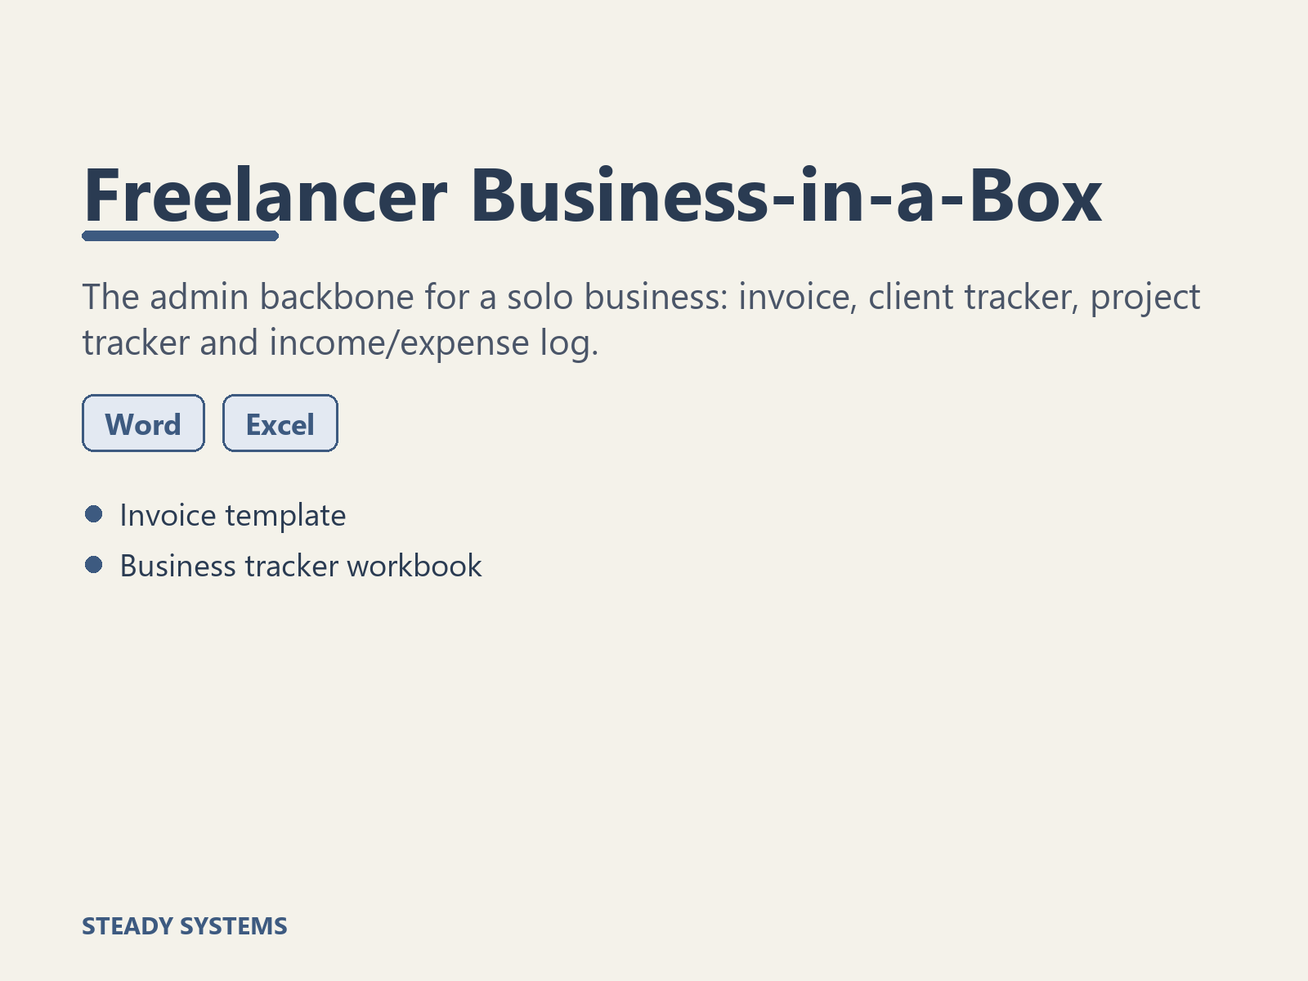
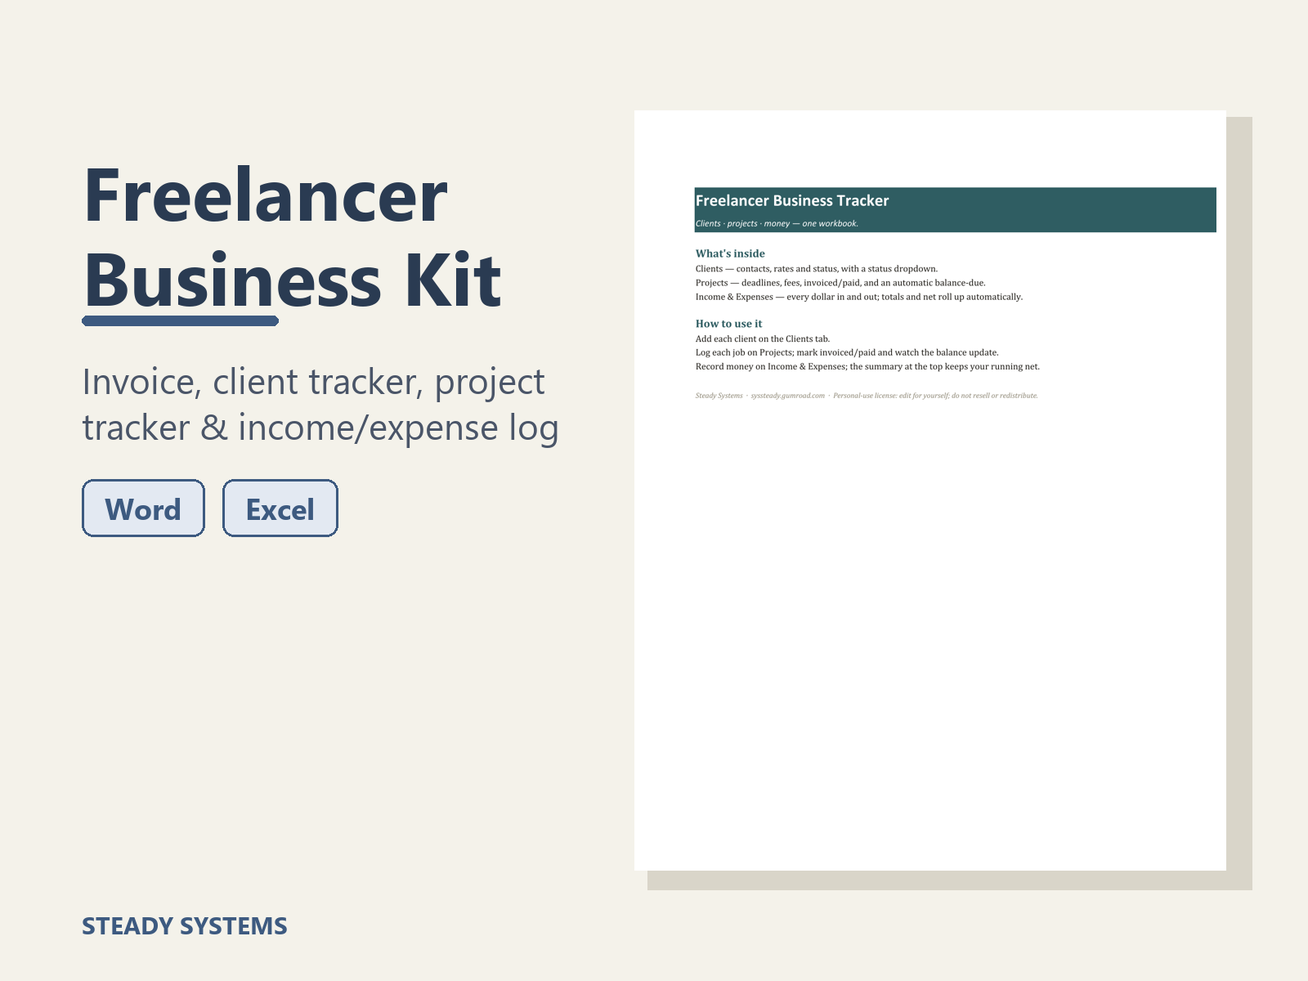
Steady Suite: per-section $1 premium pricing + refresh shop (69 products)
- Premium now priced per section at $1/mo (Money, Health, Study, Work, Home)
  instead of a single $3.99 tier; updated initPremium price + Money's modal
  and lockveil copy.
- Regenerate Template Shop with the small-business/solopreneur batch
  (148-157) plus new covers; 69 products total.

Claude-Session: https://claude.ai/code/session_01RyYX9VLjAtwqdAkZESYGAZ

Changed region(s): [[0.0625, 0.1233, 0.9688, 0.925], [0.0625, 0.4933, 0.375, 0.5858]]

diff --git a/steady/index.html b/steady/index.html
@@ -95,7 +95,7 @@ footer a{color:var(--amber)}
   <p>Practical, original systems for studying, job-hunting, money and getting organized &mdash; in the formats you
      already use (Excel, Word, PDF, Obsidian/Notion). Every one is a clean instant download.</p>
   <div class="meta">
-    <span class="tag"><b>49</b> products</span>
+    <span class="tag"><b>69</b> products</span>
     <span class="tag">Instant download</span>
     <span class="tag">Personal-use license</span>
     <span class="tag">Made in Dallas, TX</span>
@@ -399,7 +399,7 @@ footer a{color:var(--amber)}
         <a class="go" href="https://syssteady.gumroad.com/l/new-job-launch-pack" target="_blank" rel="noopener">Get it on Gumroad &rarr;</a>
       </article>
     </div>
-      <h3 class="subhead">Home &amp; life admin <span>15</span></h3>
+      <h3 class="subhead">Home &amp; life admin <span>35</span></h3>
       <div class="shopgrid">
       <article class="paper">
         <a class="shotlink" href="https://syssteady.gumroad.com/l/home-maintenance-pack" target="_blank" rel="noopener">
@@ -520,6 +520,166 @@ footer a{color:var(--amber)}
         <p>Hit reset on your money: a one-page honest snapshot of where you stand and a quarterly goals sheet to set the next 90 days.</p>
         <div class="chips"><span class="chip">PDF</span></div>
         <a class="go" href="https://syssteady.gumroad.com/l/money-reset-worksheet" target="_blank" rel="noopener">Get it on Gumroad &rarr;</a>
+      </article>
+      <article class="paper">
+        <a class="shotlink" href="https://syssteady.gumroad.com/l/habit-tracker-pack" target="_blank" rel="noopener">
+          <img class="shot" src="covers/habit-tracker-pack.png" alt="Habit Tracker Pack cover" loading="lazy"></a>
+        <div class="top"><h3>Habit Tracker Pack</h3><span class="price">$5</span></div>
+        <p>Build habits that stick: a printable month-at-a-glance grid plus an Excel weekly tracker that counts your streak and scores you against your goal.</p>
+        <div class="chips"><span class="chip">Excel</span><span class="chip">PDF</span></div>
+        <a class="go" href="https://syssteady.gumroad.com/l/habit-tracker-pack" target="_blank" rel="noopener">Get it on Gumroad &rarr;</a>
+      </article>
+      <article class="paper">
+        <a class="shotlink" href="https://syssteady.gumroad.com/l/water-intake-tracker" target="_blank" rel="noopener">
+          <img class="shot" src="covers/water-intake-tracker.png" alt="Water Intake Tracker cover" loading="lazy"></a>
+        <div class="top"><h3>Water Intake Tracker</h3><span class="price">$5</span></div>
+        <p>Actually drink enough water: a color-in daily glass tracker for the week plus a weekly log to see if you hit your goal.</p>
+        <div class="chips"><span class="chip">PDF</span></div>
+        <a class="go" href="https://syssteady.gumroad.com/l/water-intake-tracker" target="_blank" rel="noopener">Get it on Gumroad &rarr;</a>
+      </article>
+      <article class="paper">
+        <a class="shotlink" href="https://syssteady.gumroad.com/l/sleep-tracker" target="_blank" rel="noopener">
+          <img class="shot" src="covers/sleep-tracker.png" alt="Sleep Tracker cover" loading="lazy"></a>
+        <div class="top"><h3>Sleep Tracker</h3><span class="price">$5</span></div>
+        <p>Sleep better by seeing your patterns: an Excel log that calculates your hours and average, plus a printable log and a wind-down checklist.</p>
+        <div class="chips"><span class="chip">PDF</span><span class="chip">Excel</span></div>
+        <a class="go" href="https://syssteady.gumroad.com/l/sleep-tracker" target="_blank" rel="noopener">Get it on Gumroad &rarr;</a>
+      </article>
+      <article class="paper">
+        <a class="shotlink" href="https://syssteady.gumroad.com/l/workout-fitness-log" target="_blank" rel="noopener">
+          <img class="shot" src="covers/workout-fitness-log.png" alt="Workout &amp; Fitness Log cover" loading="lazy"></a>
+        <div class="top"><h3>Workout &amp; Fitness Log</h3><span class="price">$5</span></div>
+        <p>Train with a plan and track your progress: a per-session workout log with sets and notes, plus a weekly plan so every day is decided ahead.</p>
+        <div class="chips"><span class="chip">PDF</span></div>
+        <a class="go" href="https://syssteady.gumroad.com/l/workout-fitness-log" target="_blank" rel="noopener">Get it on Gumroad &rarr;</a>
+      </article>
+      <article class="paper">
+        <a class="shotlink" href="https://syssteady.gumroad.com/l/mood-journal" target="_blank" rel="noopener">
+          <img class="shot" src="covers/mood-journal.png" alt="Mood Journal cover" loading="lazy"></a>
+        <div class="top"><h3>Mood Journal</h3><span class="price">$5</span></div>
+        <p>Understand your moods instead of just riding them: a two-minute daily journal and a weekly review that surfaces your patterns.</p>
+        <div class="chips"><span class="chip">PDF</span></div>
+        <a class="go" href="https://syssteady.gumroad.com/l/mood-journal" target="_blank" rel="noopener">Get it on Gumroad &rarr;</a>
+      </article>
+      <article class="paper">
+        <a class="shotlink" href="https://syssteady.gumroad.com/l/self-care-pack" target="_blank" rel="noopener">
+          <img class="shot" src="covers/self-care-pack.png" alt="Self-Care Pack cover" loading="lazy"></a>
+        <div class="top"><h3>Self-Care Pack</h3><span class="price">$5</span></div>
+        <p>Make self-care doable: a weekly checklist across body, mind and connection, plus a menu of ideas sorted by how much time and energy you have.</p>
+        <div class="chips"><span class="chip">PDF</span></div>
+        <a class="go" href="https://syssteady.gumroad.com/l/self-care-pack" target="_blank" rel="noopener">Get it on Gumroad &rarr;</a>
+      </article>
+      <article class="paper">
+        <a class="shotlink" href="https://syssteady.gumroad.com/l/daily-routine-planner" target="_blank" rel="noopener">
+          <img class="shot" src="covers/daily-routine-planner.png" alt="Daily Routine Planner cover" loading="lazy"></a>
+        <div class="top"><h3>Daily Routine Planner</h3><span class="price">$5</span></div>
+        <p>Run your day on rails: build simple morning and evening routines, then plan the day hour by hour around your top three priorities.</p>
+        <div class="chips"><span class="chip">PDF</span></div>
+        <a class="go" href="https://syssteady.gumroad.com/l/daily-routine-planner" target="_blank" rel="noopener">Get it on Gumroad &rarr;</a>
+      </article>
+      <article class="paper">
+        <a class="shotlink" href="https://syssteady.gumroad.com/l/meal-planner-grocery" target="_blank" rel="noopener">
+          <img class="shot" src="covers/meal-planner-grocery.png" alt="Meal Planner &amp; Grocery List cover" loading="lazy"></a>
+        <div class="top"><h3>Meal Planner &amp; Grocery List</h3><span class="price">$5</span></div>
+        <p>Eat better and waste less: plan a full week of meals, then shop from a grocery list organized by store section.</p>
+        <div class="chips"><span class="chip">PDF</span></div>
+        <a class="go" href="https://syssteady.gumroad.com/l/meal-planner-grocery" target="_blank" rel="noopener">Get it on Gumroad &rarr;</a>
+      </article>
+      <article class="paper">
+        <a class="shotlink" href="https://syssteady.gumroad.com/l/habit-challenge-pack" target="_blank" rel="noopener">
+          <img class="shot" src="covers/habit-challenge-pack.png" alt="30-Day Habit Challenge cover" loading="lazy"></a>
+        <div class="top"><h3>30-Day Habit Challenge</h3><span class="price">$5</span></div>
+        <p>Build one habit in a month: a 30-day color-in challenge tracker plus a worksheet that designs the habit so it almost runs itself.</p>
+        <div class="chips"><span class="chip">PDF</span></div>
+        <a class="go" href="https://syssteady.gumroad.com/l/habit-challenge-pack" target="_blank" rel="noopener">Get it on Gumroad &rarr;</a>
+      </article>
+      <article class="paper">
+        <a class="shotlink" href="https://syssteady.gumroad.com/l/wellness-dashboard" target="_blank" rel="noopener">
+          <img class="shot" src="covers/wellness-dashboard.png" alt="Wellness Dashboard cover" loading="lazy"></a>
+        <div class="top"><h3>Wellness Dashboard</h3><span class="price">$5</span></div>
+        <p>See your whole month of health in one place: an Excel dashboard that averages sleep, workouts, water, mood and habits, plus a monthly review page.</p>
+        <div class="chips"><span class="chip">PDF</span><span class="chip">Excel</span></div>
+        <a class="go" href="https://syssteady.gumroad.com/l/wellness-dashboard" target="_blank" rel="noopener">Get it on Gumroad &rarr;</a>
+      </article>
+      <article class="paper">
+        <a class="shotlink" href="https://syssteady.gumroad.com/l/small-business-sop-pack" target="_blank" rel="noopener">
+          <img class="shot" src="covers/small-business-sop-pack.png" alt="Small Business SOP Pack cover" loading="lazy"></a>
+        <div class="top"><h3>Small Business SOP Pack</h3><span class="price">$5</span></div>
+        <p>Document how you do things once, then run them the same way every time. A reusable SOP template plus a library to track every process in your business.</p>
+        <div class="chips"><span class="chip">PDF</span><span class="chip">Word</span></div>
+        <a class="go" href="https://syssteady.gumroad.com/l/small-business-sop-pack" target="_blank" rel="noopener">Get it on Gumroad &rarr;</a>
+      </article>
+      <article class="paper">
+        <a class="shotlink" href="https://syssteady.gumroad.com/l/small-business-bookkeeping-ledger" target="_blank" rel="noopener">
+          <img class="shot" src="covers/small-business-bookkeeping-ledger.png" alt="Small-Business Bookkeeping Ledger cover" loading="lazy"></a>
+        <div class="top"><h3>Small-Business Bookkeeping Ledger</h3><span class="price">$5</span></div>
+        <p>One simple sheet for every dollar in and out, with totals that add themselves - plus a one-page monthly summary to close the books.</p>
+        <div class="chips"><span class="chip">Excel</span><span class="chip">PDF</span></div>
+        <a class="go" href="https://syssteady.gumroad.com/l/small-business-bookkeeping-ledger" target="_blank" rel="noopener">Get it on Gumroad &rarr;</a>
+      </article>
+      <article class="paper">
+        <a class="shotlink" href="https://syssteady.gumroad.com/l/content-social-media-planner" target="_blank" rel="noopener">
+          <img class="shot" src="covers/content-social-media-planner.png" alt="Content &amp; Social Media Planner cover" loading="lazy"></a>
+        <div class="top"><h3>Content &amp; Social Media Planner</h3><span class="price">$5</span></div>
+        <p>Plan and track your posts across every platform in one calendar, with a weekly planner and an idea bank so you&#x27;re never stuck for something to post.</p>
+        <div class="chips"><span class="chip">Excel</span><span class="chip">PDF</span></div>
+        <a class="go" href="https://syssteady.gumroad.com/l/content-social-media-planner" target="_blank" rel="noopener">Get it on Gumroad &rarr;</a>
+      </article>
+      <article class="paper">
+        <a class="shotlink" href="https://syssteady.gumroad.com/l/mileage-expense-log" target="_blank" rel="noopener">
+          <img class="shot" src="covers/mileage-expense-log.png" alt="Mileage &amp; Expense Log cover" loading="lazy"></a>
+        <div class="top"><h3>Mileage &amp; Expense Log</h3><span class="price">$5</span></div>
+        <p>Track business miles and expenses so you claim every deduction. The spreadsheet totals your mileage write-off automatically; the printable logs ride in the glovebox.</p>
+        <div class="chips"><span class="chip">Excel</span><span class="chip">PDF</span></div>
+        <a class="go" href="https://syssteady.gumroad.com/l/mileage-expense-log" target="_blank" rel="noopener">Get it on Gumroad &rarr;</a>
+      </article>
+      <article class="paper">
+        <a class="shotlink" href="https://syssteady.gumroad.com/l/customer-crm-tracker" target="_blank" rel="noopener">
+          <img class="shot" src="covers/customer-crm-tracker.png" alt="Customer &amp; CRM Tracker cover" loading="lazy"></a>
+        <div class="top"><h3>Customer &amp; CRM Tracker</h3><span class="price">$5</span></div>
+        <p>A no-fuss CRM for solo businesses: track every customer and lead, their status and value, and who to follow up with this week.</p>
+        <div class="chips"><span class="chip">Excel</span><span class="chip">PDF</span></div>
+        <a class="go" href="https://syssteady.gumroad.com/l/customer-crm-tracker" target="_blank" rel="noopener">Get it on Gumroad &rarr;</a>
+      </article>
+      <article class="paper">
+        <a class="shotlink" href="https://syssteady.gumroad.com/l/pricing-profit-calculator" target="_blank" rel="noopener">
+          <img class="shot" src="covers/pricing-profit-calculator.png" alt="Pricing &amp; Profit Calculator cover" loading="lazy"></a>
+        <div class="top"><h3>Pricing &amp; Profit Calculator</h3><span class="price">$5</span></div>
+        <p>Stop guessing your prices. Enter your costs, overhead and the margin you want, and get a suggested price - for products or services.</p>
+        <div class="chips"><span class="chip">Excel</span><span class="chip">PDF</span></div>
+        <a class="go" href="https://syssteady.gumroad.com/l/pricing-profit-calculator" target="_blank" rel="noopener">Get it on Gumroad &rarr;</a>
+      </article>
+      <article class="paper">
+        <a class="shotlink" href="https://syssteady.gumroad.com/l/inventory-reorder-tracker" target="_blank" rel="noopener">
+          <img class="shot" src="covers/inventory-reorder-tracker.png" alt="Inventory &amp; Reorder Tracker cover" loading="lazy"></a>
+        <div class="top"><h3>Inventory &amp; Reorder Tracker</h3><span class="price">$5</span></div>
+        <p>Know what you have and what to reorder, at a glance. The sheet flags low stock automatically and totals your stock value; the printables help you count and reorder.</p>
+        <div class="chips"><span class="chip">Excel</span><span class="chip">PDF</span></div>
+        <a class="go" href="https://syssteady.gumroad.com/l/inventory-reorder-tracker" target="_blank" rel="noopener">Get it on Gumroad &rarr;</a>
+      </article>
+      <article class="paper">
+        <a class="shotlink" href="https://syssteady.gumroad.com/l/monthly-kpi-dashboard-review" target="_blank" rel="noopener">
+          <img class="shot" src="covers/monthly-kpi-dashboard-review.png" alt="Monthly KPI Dashboard &amp; Business Review cover" loading="lazy"></a>
+        <div class="top"><h3>Monthly KPI Dashboard &amp; Business Review</h3><span class="price">$5</span></div>
+        <p>See your whole year at a glance - revenue, expenses, profit and margin by month - and run a 15-minute review so you actually act on the numbers.</p>
+        <div class="chips"><span class="chip">Excel</span><span class="chip">PDF</span></div>
+        <a class="go" href="https://syssteady.gumroad.com/l/monthly-kpi-dashboard-review" target="_blank" rel="noopener">Get it on Gumroad &rarr;</a>
+      </article>
+      <article class="paper">
+        <a class="shotlink" href="https://syssteady.gumroad.com/l/meeting-notes-action-items" target="_blank" rel="noopener">
+          <img class="shot" src="covers/meeting-notes-action-items.png" alt="Meeting Notes &amp; Action Items Pack cover" loading="lazy"></a>
+        <div class="top"><h3>Meeting Notes &amp; Action Items Pack</h3><span class="price">$5</span></div>
+        <p>Run tighter meetings and never drop a follow-up. A clean notes page for each meeting, plus one tracker that collects every action item and who owns it.</p>
+        <div class="chips"><span class="chip">PDF</span></div>
+        <a class="go" href="https://syssteady.gumroad.com/l/meeting-notes-action-items" target="_blank" rel="noopener">Get it on Gumroad &rarr;</a>
+      </article>
+      <article class="paper">
+        <a class="shotlink" href="https://syssteady.gumroad.com/l/subscriptions-renewals-tracker" target="_blank" rel="noopener">
+          <img class="shot" src="covers/subscriptions-renewals-tracker.png" alt="Business Subscriptions &amp; Renewals Tracker cover" loading="lazy"></a>
+        <div class="top"><h3>Business Subscriptions &amp; Renewals Tracker</h3><span class="price">$5</span></div>
+        <p>Stop paying for tools you forgot about. Track every subscription, its renewal date and true yearly cost, and run a review to cut the dead weight.</p>
+        <div class="chips"><span class="chip">PDF</span><span class="chip">Excel</span></div>
+        <a class="go" href="https://syssteady.gumroad.com/l/subscriptions-renewals-tracker" target="_blank" rel="noopener">Get it on Gumroad &rarr;</a>
       </article>
     </div>
     </section>

diff --git a/apps/money/index.html b/apps/money/index.html
@@ -580,7 +580,7 @@
   <div class="upsell" style="padding:20px;margin-bottom:16px">
     <h2 style="font-size:18px" id="prem-title">Steady Money Premium</h2>
     <p style="margin-bottom:8px" id="prem-desc">Unlock Debt Payoff, Savings Goals, Net Worth, Subscriptions, trends & backup.</p>
-    <div class="price" style="font-size:26px">$3.99<small>/month</small></div>
+    <div class="price" style="font-size:26px">$1<small>/month</small></div>
     <div class="keyrow"><input id="lic-key" placeholder="License key"><button class="btn" id="lic-verify">Unlock</button></div>
     <div class="note" id="lic-status" style="color:rgba(255,255,255,.8)"></div>
     <button class="btn ghost block" id="get-premium" style="margin-top:12px;border-color:rgba(255,255,255,.4);color:#fff">Get Premium →</button>
@@ -1140,7 +1140,7 @@ document.getElementById("csv-file").onchange=function(e){var f=e.target.files[0]
 //   active = success && !purchase.subscription_cancelled_at && !purchase.subscription_ended_at
 async function verifyLicense(key){key=(key||"").trim();if(!key)return{active:false,msg:"Enter a key to unlock."};if(key.toUpperCase()==="STEADY-DEMO")return{active:true,msg:"Demo unlock active — try the premium tabs."};return{active:false,msg:"Billing isn't live yet. Premium is coming soon."};}
 function applyPremium(){
-  document.querySelectorAll(".panel.locked").forEach(function(p){var veil=p.querySelector(".lockveil");if(db.premium){if(veil)veil.remove();}else if(!veil){var v=document.createElement("div");v.className="lockveil";v.innerHTML='<div class="in"><div style="font-size:30px">🔒</div><h3>A Premium feature</h3><p>Unlock Debt Payoff, Savings, Net Worth, Subscriptions, trends &amp; backup for $3.99/mo.</p><button class="btn" onclick="openAcct()">Unlock Premium</button></div>';p.appendChild(v);}});
+  document.querySelectorAll(".panel.locked").forEach(function(p){var veil=p.querySelector(".lockveil");if(db.premium){if(veil)veil.remove();}else if(!veil){var v=document.createElement("div");v.className="lockveil";v.innerHTML='<div class="in"><div style="font-size:30px">🔒</div><h3>A Premium feature</h3><p>Unlock Debt Payoff, Savings, Net Worth, Subscriptions, trends &amp; backup for $1/mo.</p><button class="btn" onclick="openAcct()">Unlock Premium</button></div>';p.appendChild(v);}});
   document.querySelectorAll('.snav .lk').forEach(el=>el.textContent=db.premium?"✓":"🔒");
   var pt=document.getElementById("prem-title"),pd=document.getElementById("prem-desc");if(db.premium){pt.textContent="✓ Premium active";pd.textContent="Thanks for supporting Steady Money. Everything's unlocked.";}
 }

diff --git a/apps/health.html b/apps/health.html
@@ -503,7 +503,7 @@ S.el("sl-date").value=S.todayISO();S.el("w-date").value=S.todayISO();S.el("wt-da
 if(db.moodPick){document.querySelectorAll("#mood-pick button").forEach(b=>b.classList.toggle("on",Number(b.dataset.m)===db.moodPick));}
 S.initShell();
 S.initAccount({name:"steady-health",defaults:DEF,sample:SAMPLE,render:renderAll});
-S.initPremium({title:"Steady Health Premium",desc:"Deeper analytics that turn your logs into real insight.",veil:"See 30-day trends and what's actually moving your mood, sleep and weight.",
+S.initPremium({title:"Steady Health Premium",price:"1",desc:"Just $1/mo for this section — deeper tools for your health.",veil:"See 30-day trends and what's actually moving your mood, sleep and weight.",
   features:["🍎 Nutrition — log meals & track daily calories","💪 Routines — build workouts & log in one tap","📄 Printable weekly health report (PDF)","📈 30-day Trends — sleep, mood & water","💡 Insights — what moves your mood, sleep & weight"],render:renderAll});
 renderAll();
 S.onboard({html:'<div class="welcome-hero"><div class="logo">S</div><h2>Welcome to Steady Health</h2><p>Habits, water, sleep, mood and workouts — private, and saved only on your device.</p></div><div class="feat"><div class="fi">🔥</div><div><b>Build streaks</b><p>Track daily and keep the chain going.</p></div></div><div class="feat"><div class="fi">🏆</div><div><b>Earn badges</b><p>Milestones unlock as you go.</p></div></div>',sample:SAMPLE,render:renderAll});

diff --git a/apps/home.html b/apps/home.html
@@ -371,7 +371,7 @@ function SAMPLE(){var t=new Date();function iso(off){var x=new Date(t.getFullYea
 S.el("mt-date").value=S.todayISO();
 S.initShell();
 S.initAccount({name:"steady-home",defaults:DEF,sample:SAMPLE,render:renderAll});
-S.initPremium({title:"Steady Home Premium",desc:"Your whole home on one printable sheet.",veil:"Unlock the printable Home Binder — documents, inventory & maintenance in one PDF.",
+S.initPremium({title:"Steady Home Premium",price:"1",desc:"Just $1/mo for this section — tools to run your home.",veil:"Unlock the printable Home Binder — documents, inventory & maintenance in one PDF.",
   features:["📇 Contacts — plumber, landlord & emergency numbers (one-tap call)","🍂 Seasonal checklists — stay ahead of home upkeep","🛠 Home Projects — track repairs with budgets","📘 Home Binder — one printable sheet of everything","📦 Inventory ready for insurance"],render:renderAll});
 renderAll();
 S.onboard({html:'<div class="welcome-hero"><div class="logo">S</div><h2>Welcome to Steady Home</h2><p>Cleaning, maintenance, meals and important documents — one calm place to run your home.</p></div><div class="feat"><div class="fi">🧹</div><div><b>Nothing slips</b><p>Tasks reset on their own schedule and tell you what\'s due.</p></div></div><div class="feat"><div class="fi">🗄</div><div><b>Always prepared</b><p>Know where every document is and when it expires.</p></div></div>',sample:SAMPLE,render:renderAll});

diff --git a/apps/study.html b/apps/study.html
@@ -416,7 +416,7 @@ function renderAll(){renderAssign();renderGPA();renderExams();renderSched();rend
 S.el("a-due").value=S.todayISO();S.el("ss-date").value=S.todayISO();
 S.initShell();
 S.initAccount({name:"steady-study",defaults:DEF,sample:SAMPLE,render:renderAll});
-S.initPremium({title:"Steady Study Premium",desc:"Plan smarter and see your trends.",veil:"Unlock the auto-built study planner and your performance trends.",
+S.initPremium({title:"Steady Study Premium",price:"1",desc:"Just $1/mo for this section — smarter study tools.",veil:"Unlock the auto-built study planner and your performance trends.",
   features:["🎯 Grade Planner — what you need on the final","🧠 Quiz mode — test yourself on any deck, scored","⏳ Focus timer — Pomodoro that auto-logs sessions","🗓 Smart Planner — a 7-day plan from your deadlines","📈 Trends — study time, grades & workload"],render:renderAll});
 renderAll();
 S.onboard({html:'<div class="welcome-hero"><div class="logo">S</div><h2>Welcome to Steady Study</h2><p>Assignments, GPA, exam countdowns and your class schedule — private, on your device.</p></div><div class="feat"><div class="fi">🎯</div><div><b>Stay ahead</b><p>Due-date flags and exam countdowns keep you on track.</p></div></div><div class="feat"><div class="fi">🎓</div><div><b>Watch your GPA</b><p>Add courses and see it update live.</p></div></div>',sample:SAMPLE,render:renderAll});

diff --git a/apps/work.html b/apps/work.html
@@ -560,7 +560,7 @@ if(!S.el("rp-month").value)S.el("rp-month").value=tm();
 S.el("rp-month").onchange=renderReports;
 S.initShell();
 S.initAccount({name:"steady-work",defaults:DEF,sample:SAMPLE,render:renderAll});
-S.initPremium({title:"Steady Work Premium",desc:"The business-owner tools: reports and trends.",veil:"Unlock printable monthly reports and your 6-month income trends.",
+S.initPremium({title:"Steady Work Premium",price:"1",desc:"Just $1/mo for this section — the business-owner tools.",veil:"Unlock printable monthly reports and your 6-month income trends.",
   features:["📝 Estimates — price a job & print a clean quote","📇 Follow-ups — never drop a lead","🎯 Income planner — target, hours-to-go & forecast","📊 Monthly business report (P&L) — print as PDF","📈 Trends — 6-month income & by-client"],render:renderAll});
 renderAll();
 S.onboard({html:'<div class="welcome-hero"><div class="logo">S</div><h2>Welcome to Steady Work</h2><p>Invoices, billable time, income goals and clients — private, and saved on your device.</p></div><div class="feat"><div class="fi">🧾</div><div><b>Look professional</b><p>Build invoices and print or save them as PDF.</p></div></div><div class="feat"><div class="fi">🎯</div><div><b>Hit your number</b><p>Track income against a monthly goal.</p></div></div>',sample:SAMPLE,render:renderAll});
